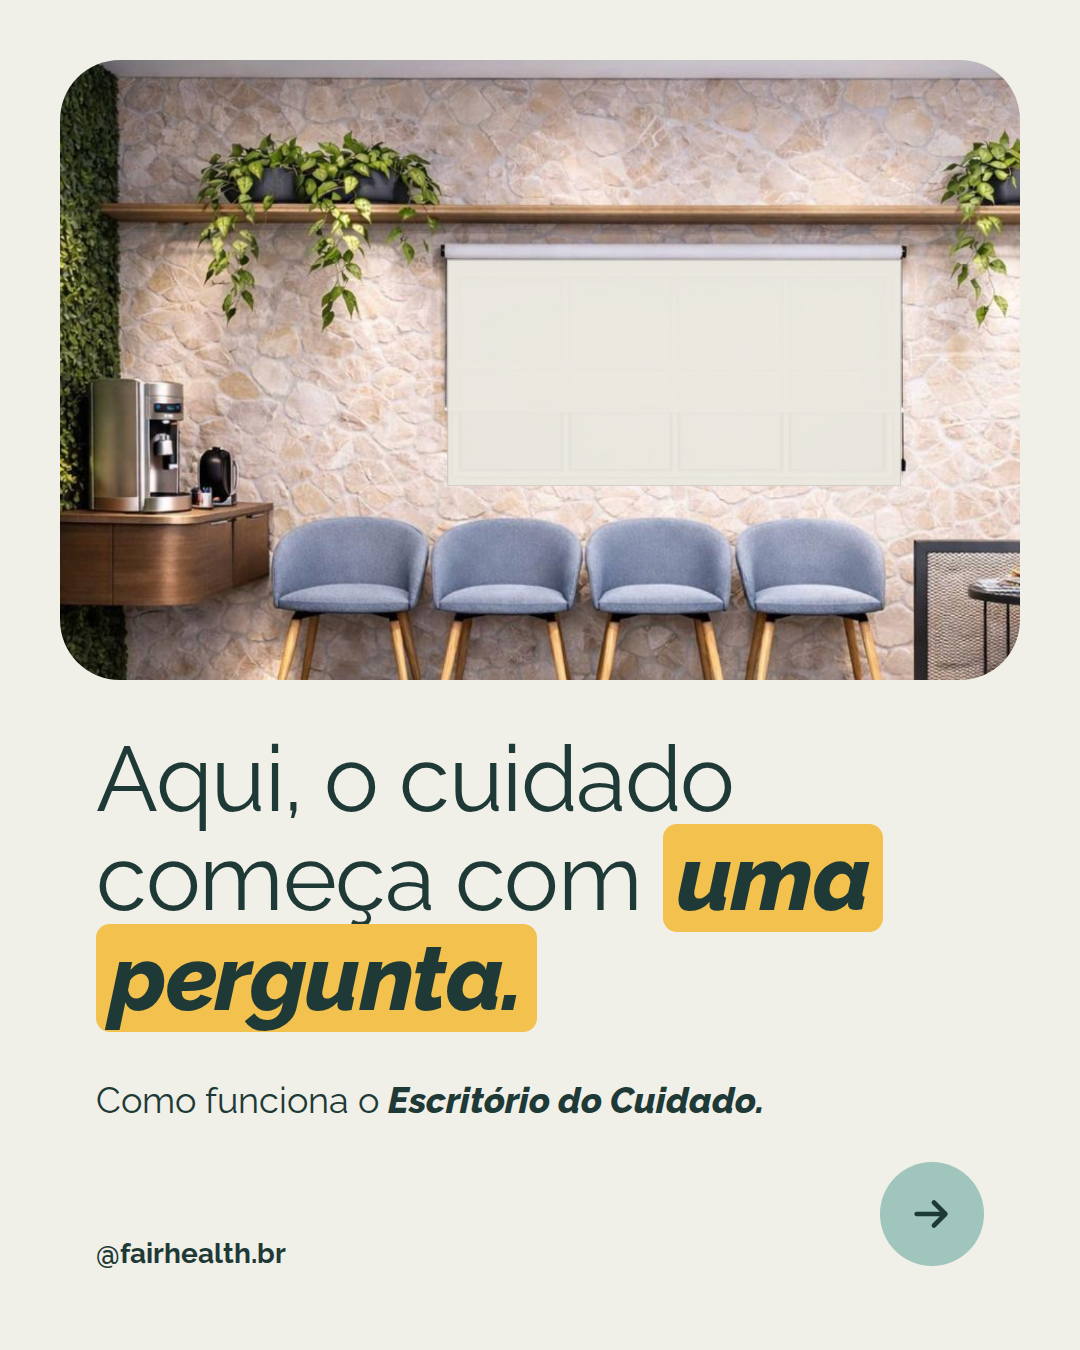
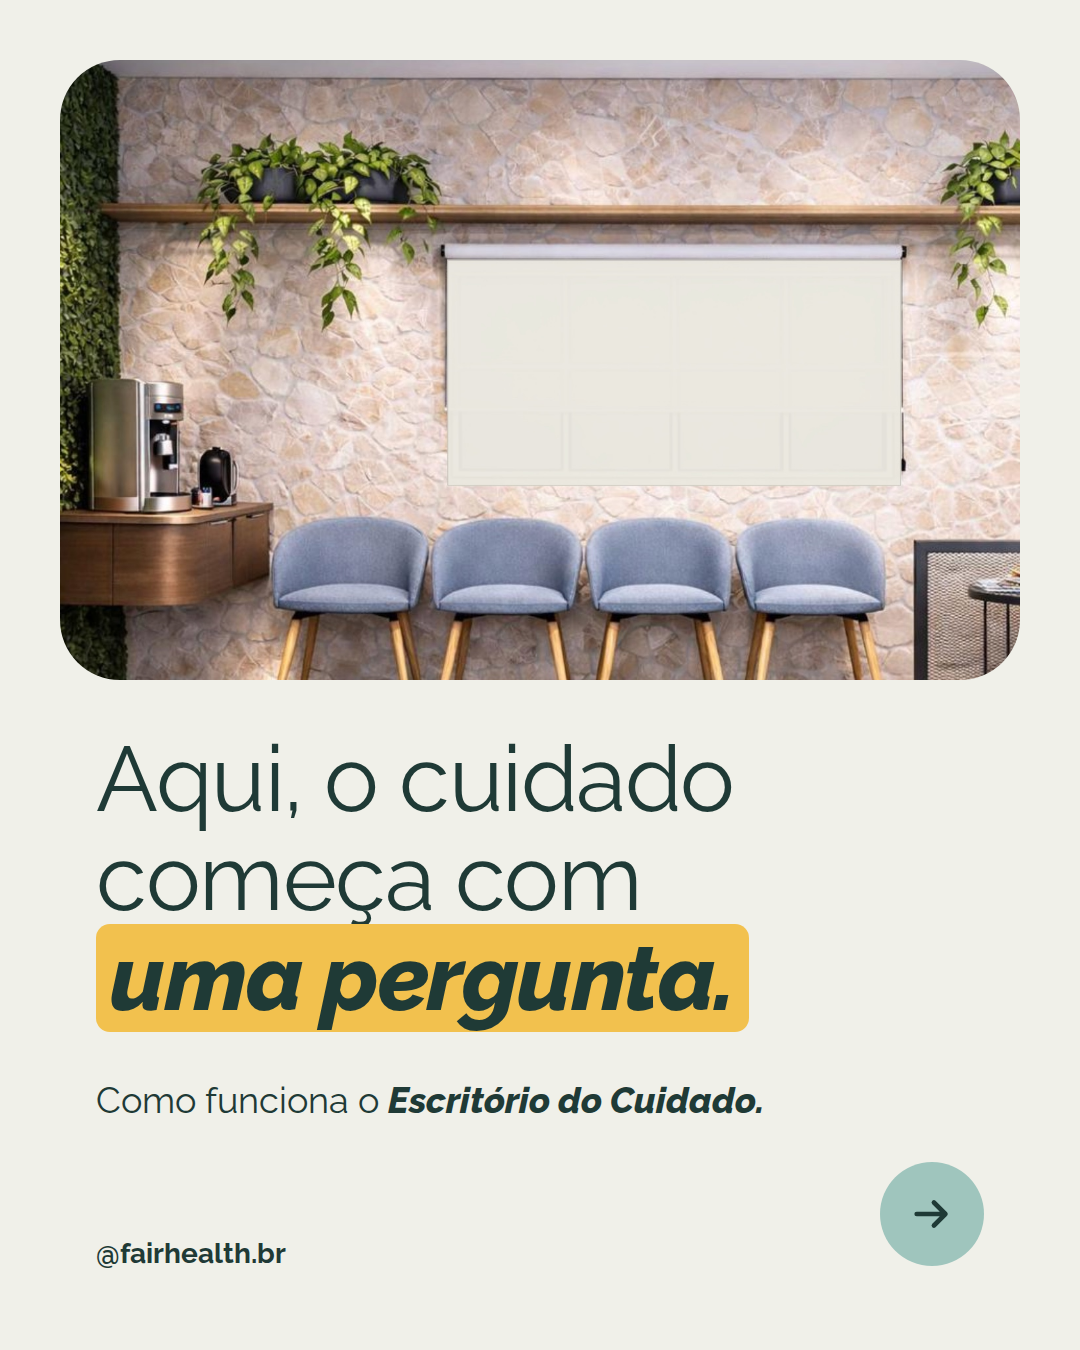
Yellow carousel: cover title with explicit breaks for Canva
Claude-Session: https://claude.ai/code/session_011JWhGAkUjJPXHMtv46EUoM

Changed region(s): [[0.1222, 0.5911, 0.825, 0.7778], [0.0917, 0.7467, 0.1222, 0.7778]]

diff --git a/instagram/canva/carrossel-acolhimento-amarelo-capa.html b/instagram/canva/carrossel-acolhimento-amarelo-capa.html
@@ -1,0 +1,36 @@
+<!doctype html>
+<html lang="pt-BR"><head><meta charset="utf-8"><title>Carrossel acolhimento: versão suave com amarelo</title>
+<style>
+/* Paleta: Tiffany #9FC5BD (principal) + creme #F0F0E9 + amarelo #F2C14E (extra, sempre junto do Tiffany).
+   Texto em verde-escuro #1F3A36. Fonte da marca: Raleway. Formas arredondadas, nada de caixas retas. */
+@font-face{font-family:Raleway;font-weight:400;src:url(https://raw.githubusercontent.com/nina-rebello/Comunica-o-FH/claude/eager-bell-tblhnh/instagram/marca/fontes/raleway-latin-400-normal.woff2)}
+@font-face{font-family:Raleway;font-weight:500;src:url(https://raw.githubusercontent.com/nina-rebello/Comunica-o-FH/claude/eager-bell-tblhnh/instagram/marca/fontes/raleway-latin-500-normal.woff2)}
+@font-face{font-family:Raleway;font-weight:700;src:url(https://raw.githubusercontent.com/nina-rebello/Comunica-o-FH/claude/eager-bell-tblhnh/instagram/marca/fontes/raleway-latin-700-normal.woff2)}
+@font-face{font-family:Raleway;font-weight:800;font-style:italic;src:url(https://raw.githubusercontent.com/nina-rebello/Comunica-o-FH/claude/eager-bell-tblhnh/instagram/marca/fontes/raleway-latin-800-italic.woff2)}
+@font-face{font-family:Raleway;font-weight:400;font-style:italic;src:url(https://raw.githubusercontent.com/nina-rebello/Comunica-o-FH/claude/eager-bell-tblhnh/instagram/marca/fontes/raleway-latin-400-italic.woff2)}
+:root{--t:#9FC5BD;--c:#F0F0E9;--a:#F2C14E;--k:#1F3A36}
+*{box-sizing:border-box;margin:0;padding:0}
+body{font-family:Raleway,sans-serif;background:#ccc}
+.slide{width:1080px;height:1350px;position:relative;overflow:hidden;margin:0 0 40px;color:var(--k)}
+.slide>*{position:absolute}
+.t{background:var(--t)} .c{background:var(--c)}
+h1{font-size:104px;line-height:1.08;font-weight:400;letter-spacing:-1.5px}
+h1 b{font-weight:800;font-style:italic}
+.sub{font-size:40px;line-height:1.4}
+.mk{background:var(--a);padding:0 14px;border-radius:14px;box-decoration-break:clone;-webkit-box-decoration-break:clone}
+.handle{bottom:80px;font-size:28px;font-weight:700}
+.pag{top:84px;right:96px;font-size:26px;font-weight:500;opacity:.6}
+.passo{display:inline-block;font-size:28px;font-weight:700;letter-spacing:5px;padding:16px 32px;border-radius:40px}
+.foto{background-size:cover;background-position:center}
+.pill{font-size:46px;font-weight:700;padding:30px 56px;border-radius:70px;white-space:nowrap}
+.seta{width:104px;height:104px;border-radius:50%;display:flex;align-items:center;justify-content:center}
+.lista .li{padding:22px 0;border-bottom:3px solid color-mix(in srgb,var(--acento) 35%,transparent)}.lista .li:last-child{border:0}.lista .li span{font-weight:800;font-style:italic;color:var(--acento);margin-right:18px}.flecha{border:0!important}.flecha svg{width:110px!important;height:110px!important}
+</style></head><body>
+<section data-document-role="page" class="slide c" id="y-01">
+  <div class="foto" style="left:60px;right:60px;top:60px;height:620px;border-radius:60px;background-image:url(https://raw.githubusercontent.com/nina-rebello/Comunica-o-FH/claude/eager-bell-tblhnh/instagram/marca/espaco/recepcao-parede-pedra.jpg);background-position:30% 30%"></div>
+    <h1 style="left:96px;top:730px;width:900px;font-size:92px">Aqui, o cuidado<br>começa com<br><b class="mk">uma pergunta.</b></h1>
+  <p class="sub" style="left:96px;top:1075px;width:760px;font-size:36px">Como funciona o <b style="font-weight:800;font-style:italic">Escritório do Cuidado.</b></p>
+  <div class="seta" style="right:96px;bottom:84px;background:var(--t)"><svg width="46" height="46" viewBox="0 0 24 24" fill="none" stroke="#1F3A36" stroke-width="2.4" stroke-linecap="round" stroke-linejoin="round"><circle cx="12" cy="12" r="11.2" stroke-width=".9"/><path transform="translate(6 6) scale(.5)" d="M4 12h15M13 6l6 6-6 6"/></svg></div>
+  <div class="handle" style="left:96px">@fairhealth.br</div>
+</section>
+</body></html>

diff --git a/instagram/canva/carrossel-acolhimento-amarelo.html b/instagram/canva/carrossel-acolhimento-amarelo.html
@@ -30,7 +30,7 @@ h1 b{font-weight:800;font-style:italic}
 <!-- 1 · capa -->
 <section data-document-role="page" class="slide c" id="y-01">
   <div class="foto" style="left:60px;right:60px;top:60px;height:620px;border-radius:60px;background-image:url(https://raw.githubusercontent.com/nina-rebello/Comunica-o-FH/claude/eager-bell-tblhnh/instagram/marca/espaco/recepcao-parede-pedra.jpg);background-position:30% 30%"></div>
-    <h1 style="left:96px;top:730px;width:900px;font-size:92px">Aqui, o cuidado começa com <b class="mk">uma pergunta.</b></h1>
+    <h1 style="left:96px;top:730px;width:900px;font-size:92px">Aqui, o cuidado<br>começa com<br><b class="mk">uma pergunta.</b></h1>
   <p class="sub" style="left:96px;top:1075px;width:760px;font-size:36px">Como funciona o <b style="font-weight:800;font-style:italic">Escritório do Cuidado.</b></p>
   <div class="seta" style="right:96px;bottom:84px;background:var(--t)"><svg width="46" height="46" viewBox="0 0 24 24" fill="none" stroke="#1F3A36" stroke-width="2.4" stroke-linecap="round" stroke-linejoin="round"><circle cx="12" cy="12" r="11.2" stroke-width=".9"/><path transform="translate(6 6) scale(.5)" d="M4 12h15M13 6l6 6-6 6"/></svg></div>
   <div class="handle" style="left:96px">@fairhealth.br</div>

diff --git a/instagram/posts/acolhimento/amarelo.html b/instagram/posts/acolhimento/amarelo.html
@@ -29,7 +29,7 @@ h1 b{font-weight:800;font-style:italic}
 <!-- 1 · capa -->
 <section class="slide c" id="y-01">
   <div class="foto" style="left:60px;right:60px;top:60px;height:620px;border-radius:60px;background-image:url(../../marca/espaco/recepcao-parede-pedra.jpg);background-position:30% 30%"></div>
-    <h1 style="left:96px;top:730px;width:900px;font-size:92px">Aqui, o cuidado começa com <b class="mk">uma pergunta.</b></h1>
+    <h1 style="left:96px;top:730px;width:900px;font-size:92px">Aqui, o cuidado<br>começa com<br><b class="mk">uma pergunta.</b></h1>
   <p class="sub" style="left:96px;top:1075px;width:760px;font-size:36px">Como funciona o <b style="font-weight:800;font-style:italic">Escritório do Cuidado.</b></p>
   <div class="seta" style="right:96px;bottom:84px;background:var(--t)"><svg width="46" height="46" viewBox="0 0 24 24" fill="none" stroke="#1F3A36" stroke-width="2.4" stroke-linecap="round" stroke-linejoin="round"><path d="M4 12h15M13 6l6 6-6 6"/></svg></div>
   <div class="handle" style="left:96px">@fairhealth.br</div>
